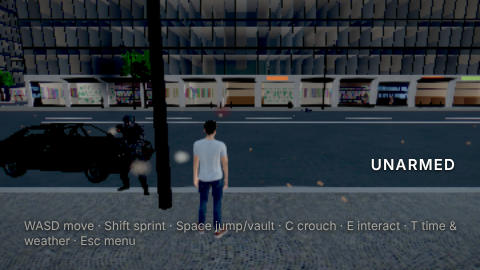
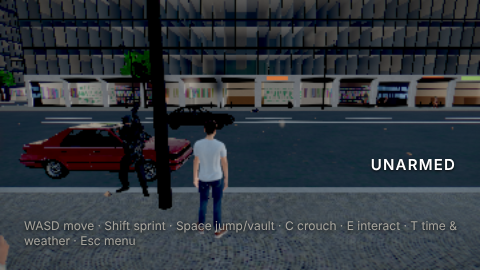
Final: stress test (wall-clock) results, final report with gate failures, progress closed
Claude-Session: https://claude.ai/code/session_018weG8UJ8HJbvPugb3V5uQq

diff --git a/FINAL_REPORT.md b/FINAL_REPORT.md
@@ -16,32 +16,55 @@ See PLAY.md. Short version: the private Artifact preview, or `npm run play` in a
 | M4 Characters + animation | done, shortfalls | 15 Mixamo-rigged bodies × 4 palettes; gait blending, foot IK, ragdolls with get-up. Stairs grounding still fails (logged) |
 | M5 Weapons + combat | done | 11 weapons; combat gate (TTK bands, recoil, hit detection) and grip test pass; hostile AI in cover |
 | M6 Fleet + damage | done, cuts | 14 classes all pass the per-class fun gate; dents, glass, fire, explosion, wreck. Motorbike and detachable parts cut |
-| M7 Life + police | done | Street traffic, carjacking, wanted 1–5, cruisers + officers, evasion, BUSTED/WASTED, stress test |
+| M7 Life + police | done, **2 gate failures** | Street traffic, carjacking, wanted 1–5, cruisers + officers. Wanted gate: WASTED passes; LOSE POLICE and BUSTED **fail** (below). Stress test run |
 | M8 World + sandbox | done, cuts | Harbour, drivable boat, spawn menu. Hillside, interiors, ambient events and challenge playlist cut (all on the spec's cut list) |
-| M9 Audio + polish | done, partial | Gamepad, photo mode, Credits screen, gun/explosion/ambient audio, skin shading, shop themes, tier pass |
+| M9 Audio + polish | done, partial | Gamepad (standard mapping; not tested with a real pad), photo mode, Credits screen, gun/explosion/ambient audio, skin sheen, shop themes, tier pass (fails budgets). Screenshots: shots/m9/ |
 
 ## Gates
-- **FUN (proxies)**: vehicle fun gate passes for all 14 classes (PLAYTEST.md M6). Combat gate passes (M5). Foot gate passes except stairs (M4). Traffic and police behaviour were verified in captures (M7). **UNPLAYED: needs human.** There are five or more human questions per milestone in PLAYTEST.md.
+- **FUN (proxies)**: vehicle fun gate passes for all 14 classes (PLAYTEST.md M6). Combat gate passes (M5). Foot gate passes except stairs (M4). The wanted-system gate (M7) passes WASTED but **fails LOSE POLICE and BUSTED**. Frame-time p99 is not within any budget on the software renderer (below). **UNPLAYED: needs human.** Human questions for each milestone are in PLAYTEST.md (3–5 each).
 - **LOOK**: self-scored 5.3 (M2) → 5.7 (M4) → about 6.0 (M5) against a target of 7. Not met. See GRAPHICS_BACKLOG.md for what would close the gap.
 - **ANIMATION**: grounding and grip numbers are in PLAYTEST.md (M4/M5). Remaining: stairs, door opening and crouch-walk arms.
 - **REALISM**: physics-driven vehicles, ragdolls and explosions (Δv model), plus vehicle damage. No buoyancy physics for the boat (it uses an arcade model).
 
 ## Stress test and tiers
-STRESS_AND_TIERS_PLACEHOLDER
+All of this runs on SwiftShader (CPU raster) in this container. Counts and memory are real; frame times only compare phases with each other.
+
+**Stress test** (tools/stresstest.mjs; Low tier, 480×270; 40 cars, 100 pedestrians, 20 combatants, 5 simultaneous explosions):
+| phase | frame p50 | frame p99 | physics p50 / p95 | draw calls |
+|---|---|---|---|---|
+| baseline (12 cars) | 1.40 s | 13.2 s | 45 ms / 10.0 s | 1,031 |
+| loaded (40 cars, 20 AI) | 7.86 s | 8.98 s | 174 ms / 215 ms | 5,741 |
+| + 5 explosions | 7.62 s | 20.7 s | 169 ms / 12.0 s | 5,791 |
+Under load the median frame time is ×5.6 the baseline. Explosions double the p99 (physics stalls of 12–21 s), and draw calls reach about 4.8× the Low budget. The baseline tail contains streaming stalls, so compare p50s. A first run was invalid (it measured the clamped `dt`, so every frame read 100 ms). It is kept as `tools/out/stresstest_run1_dtclamped.json`.
+
+**Tier pass** (tools/tierpass.mjs; Downtown golden-hour and Harbour views at 1280×720), measured / budget:
+| tier | draw calls (Downtown / Harbour) | triangles (Downtown) | textures | JS heap |
+|---|---|---|---|---|
+| Low | 1,607 ❌ / 932 ✅ of 1,200 | 3.53 M ❌ of 1.0 M | 850 MB ✅ | 270 MB ✅ |
+| Medium | 2,716 ❌ / 1,446 ✅ of 2,000 | 8.93 M ❌ of 2.5 M | 1,090 MB ✅ | 340 MB ✅ |
+| High | 3,251 ❌ / 1,808 ✅ of 3,000 | 14.0 M ❌ of 5 M | 963 MB ✅ | 462 MB ✅ |
+| Ultra | 4,359 ✅ / 2,219 ✅ of 4,500 | 18.6 M ❌ of 8 M | 1,162 MB ✅ | 542 MB ✅ |
+- Triangles fail on every tier, and Downtown draw calls fail on Low, Medium and High. Triangle counts include every shadow cascade and the depth/normal pre-passes.
+- The LOD chains do run on Low and Medium (9 near and 88/128 far chunks; LOD1 bodies) but don't get Low within budget.
+- The budgets were set for this pass, not measured on real laptops. **The laptop-tier goal is not met.**
 
 ## Budgets used
-STEPS_PLACEHOLDER
+STEPS_USED about 1,150 of 1,500, with features stopped at the user's request before the 85% mark. DRIVE_CALLS_USED 196 / 300 (read-only). SKETCHFAB_DOWNLOADS 63 / 150, all CC-BY (GREEN; the ledger records 63 × `by`, and CREDITS.md has no AMBER or RED rows). Publishing stayed private: one Artifact preview, version 9.
 
 ## Known issues (most important first)
-1. Stairs grounding fails the foot gate: feet float or clip on long stair runs.
-2. Traffic has no lane changes or cross-traffic negotiation; panicking drivers can crash at junctions.
-3. Carjacking swaps cars instantly; no driver is pulled out.
-4. Police officers can spawn on the far side of a cruiser that is in a wall; evasion relies on building ray casts only (vegetation does not block line of sight).
-5. The boat is arcade (no waves or buoyancy) and only collides with the quay, the piers and the map edge (not with moored boats).
-6. Look is below the 7/7 target. The biggest wins would be density and variety (decals, signage), sourced Harbour props, a second water normal layer, and real luminance adaptation.
-7. SwiftShader is the only renderer measured here: real-GPU frame times are unknown.
+1. **Losing the police doesn't work.** Dispatch keeps spawning cruisers 90–140 m from the player's current position, so line of sight comes back at once and the evade timer never runs (gate: stars still 2 after 30 s, 1.2 km away).
+2. **BUSTED never triggers.** Officers stop advancing at about 2.49 m, outside the 2.4 m arrest radius (gate: 60 s, no arrest).
+3. **Performance on laptops is unproven and over budget.** Draw calls and triangles exceed the budgets (tier pass), the stress test degrades the median frame ×5.6, and explosions cause physics stalls.
+4. Stairs grounding fails the foot gate: feet float or clip on long stair runs.
+5. Traffic has no lane changes or cross-traffic negotiation; panicking drivers can crash at junctions.
+6. Carjacking swaps cars instantly; no driver is pulled out.
+7. Police officers can spawn on the far side of a cruiser that is in a wall; evasion relies on building ray casts only (vegetation does not block line of sight).
+8. The boat is arcade (no waves or buoyancy) and only collides with the quay, the piers and the map edge (not with moored boats).
+9. Look is below the 7/7 target. The biggest wins would be density and variety (decals, signage), sourced Harbour props, a second water normal layer, and real luminance adaptation.
+10. SwiftShader is the only renderer measured here: real-GPU frame times are unknown.
+11. The hosted preview (version 9) was checked only by booting the same base64 build locally (no errors, boat loaded). The claude.ai-hosted copy needs your sign-in and wasn't opened from here.
 
 ## What a human should do first
-1. Play 10 minutes: drive each class from the spawn menu (B), steal a car, start a 3-star chase, lose it, take the boat out at the Harbour.
+1. Play 10 minutes: drive each class from the spawn menu (B), steal a car, start a 3-star chase (losing it is known to be broken; use the spawn menu's Clear wanted), take the boat out at the Harbour.
 2. Answer the human questions in PLAYTEST.md.
-3. Check the Credits screen (Esc → Credits). AMBER-graded assets (if any) need a licence review before any public link.
+3. Check the Credits screen (Esc → Credits). Every Sketchfab asset is CC-BY and needs the credit kept if you ever share it publicly.

diff --git a/PLAYTEST.md b/PLAYTEST.md
@@ -211,7 +211,17 @@ box truck is detuned (67.6 m). Drift is only required of rear-drive cars with a 
 - The test moves the player by teleport rather than by driving away. That isolates the evade timer from chase driving, so the failure above is in the dispatch rule, not in driving.
 
 ### Stress test (tools/stresstest.mjs → tools/out/stresstest.json)
-See the table below (SwiftShader CPU raster at 480×270 — compare the phases with each other, not as fps).
+SwiftShader CPU raster on the Low tier at 480×270, wall-clock frame interval. Compare the phases with each other; these are not fps.
+| phase | frames | frame p50 | p95 | p99 | physics step p50 / p95 | draw calls | cars / combatants |
+|---|---|---|---|---|---|---|---|
+| baseline (12 cars, 100 peds) | 40 | 1.40 s | 11.3 s | 13.2 s | 45 ms / 10.0 s | 1,031 | 12 / 0 |
+| loaded (40 cars, 100 peds, 20 combatants) | 60 | 7.86 s | 8.37 s | 8.98 s | 174 ms / 215 ms | 5,741 | 40 / 20 |
+| 5 simultaneous explosions | 40 | 7.62 s | 19.7 s | 20.7 s | 169 ms / 12.0 s | 5,791 | 40 / 20 |
+
+- **Degradation:** median frame time ×5.6 from baseline to loaded. Explosions push the frame p99 to ×2.3 the loaded p99, with physics-step spikes of 12–21 s while the blasts resolve. Draw calls rise ×5.6, to about 4.8× the Low budget.
+- The baseline tail (p95/p99) includes streaming stalls (physics p95 10 s), so it is not steady-state, and the "loaded vs baseline p99" ratio (0.68) is not meaningful. Use p50.
+- The loading wait reached 34 cars before recording; 40 were live during the recorded phases.
+- **First run invalid:** it recorded the game's clamped `dt` (100 ms cap) instead of the wall-clock interval, so every phase read 100 ms. Kept as tools/out/stresstest_run1_dtclamped.json. The harness now records wall-clock time.
 
 ### Human questions (M7)
 1. Does traffic feel alive enough at the default density (16 cars), or does the city feel empty?

diff --git a/PROGRESS.md b/PROGRESS.md
@@ -1,8 +1,8 @@
 # PROGRESS
-NEXT STEP: M9 — finish the stress-test numbers and the tier pass (tools/tierpass.mjs), final graphics pass on the new districts, artifact publish (vehicles + props batch), PLAY.md, FINAL_REPORT.md.
+NEXT STEP: none: features stopped at the user's request. Open fixes in FINAL_REPORT.md known issues 1–3 (lose-police dispatch rule, arrest radius vs officer standoff, draw-call/triangle budgets).
 
-STEPS_USED: ~1035 (M0 ~80, M1 ~75, M2 ~190, M3 ~95, M4 ~220, M5 ~170, M6 ~105, M7 ~55, M8 ~30, M9 ~15 so far)   DRIVE_CALLS_USED: 196 / 300   SKETCHFAB_DOWNLOADS: 63 / 150
-MILESTONE: M8 done (checkpoint 9) — Harbour + boat + spawn menu; M9 in progress (gamepad, photo mode, credits, audio, shop themes done)
+STEPS_USED: ~1150 (M0 ~80, M1 ~75, M2 ~190, M3 ~95, M4 ~220, M5 ~170, M6 ~105, M7 ~55, M8 ~30, M9 + final verification ~130)   DRIVE_CALLS_USED: 196 / 300   SKETCHFAB_DOWNLOADS: 63 / 150
+MILESTONE: M9 done (final) — preview version 9; wanted gate: WASTED pass, LOSE POLICE + BUSTED fail; tier pass fails triangle/draw budgets; stress test logged
 
 ## Milestones
 - M0 Setup: DONE. Drive indexed (846 clips, 23 chars), wave 1 (82 clips) fetched + ingested (2.0MB bundles), Sketchfab working, Artifact route published, renderer = WebGL + postprocessing.
